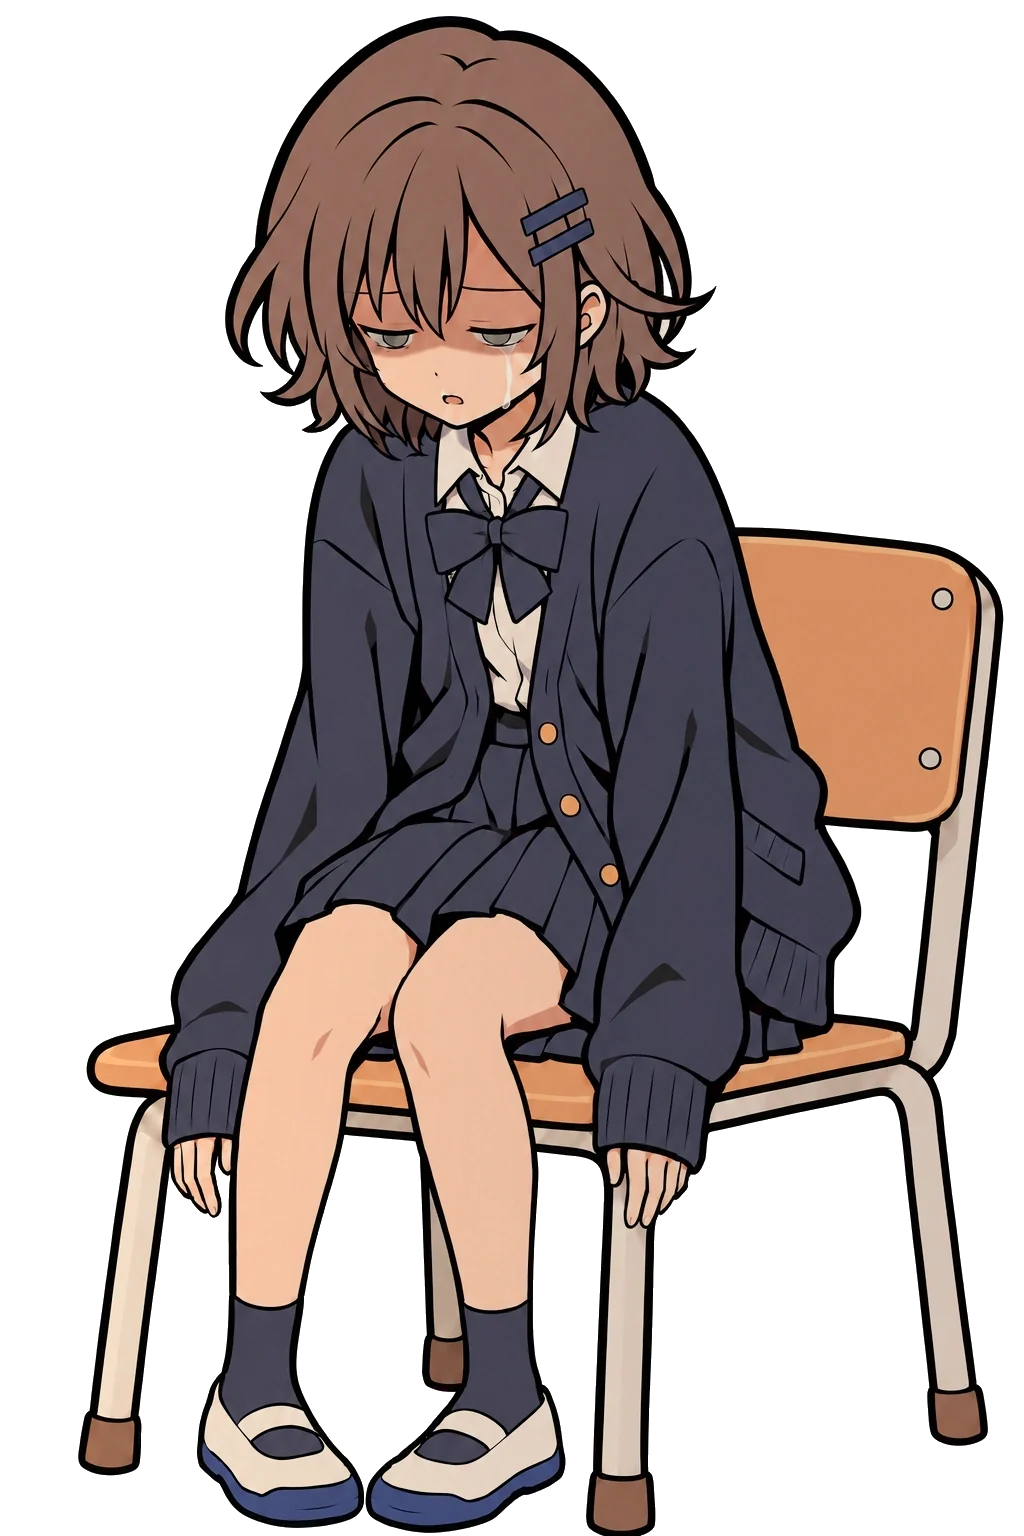
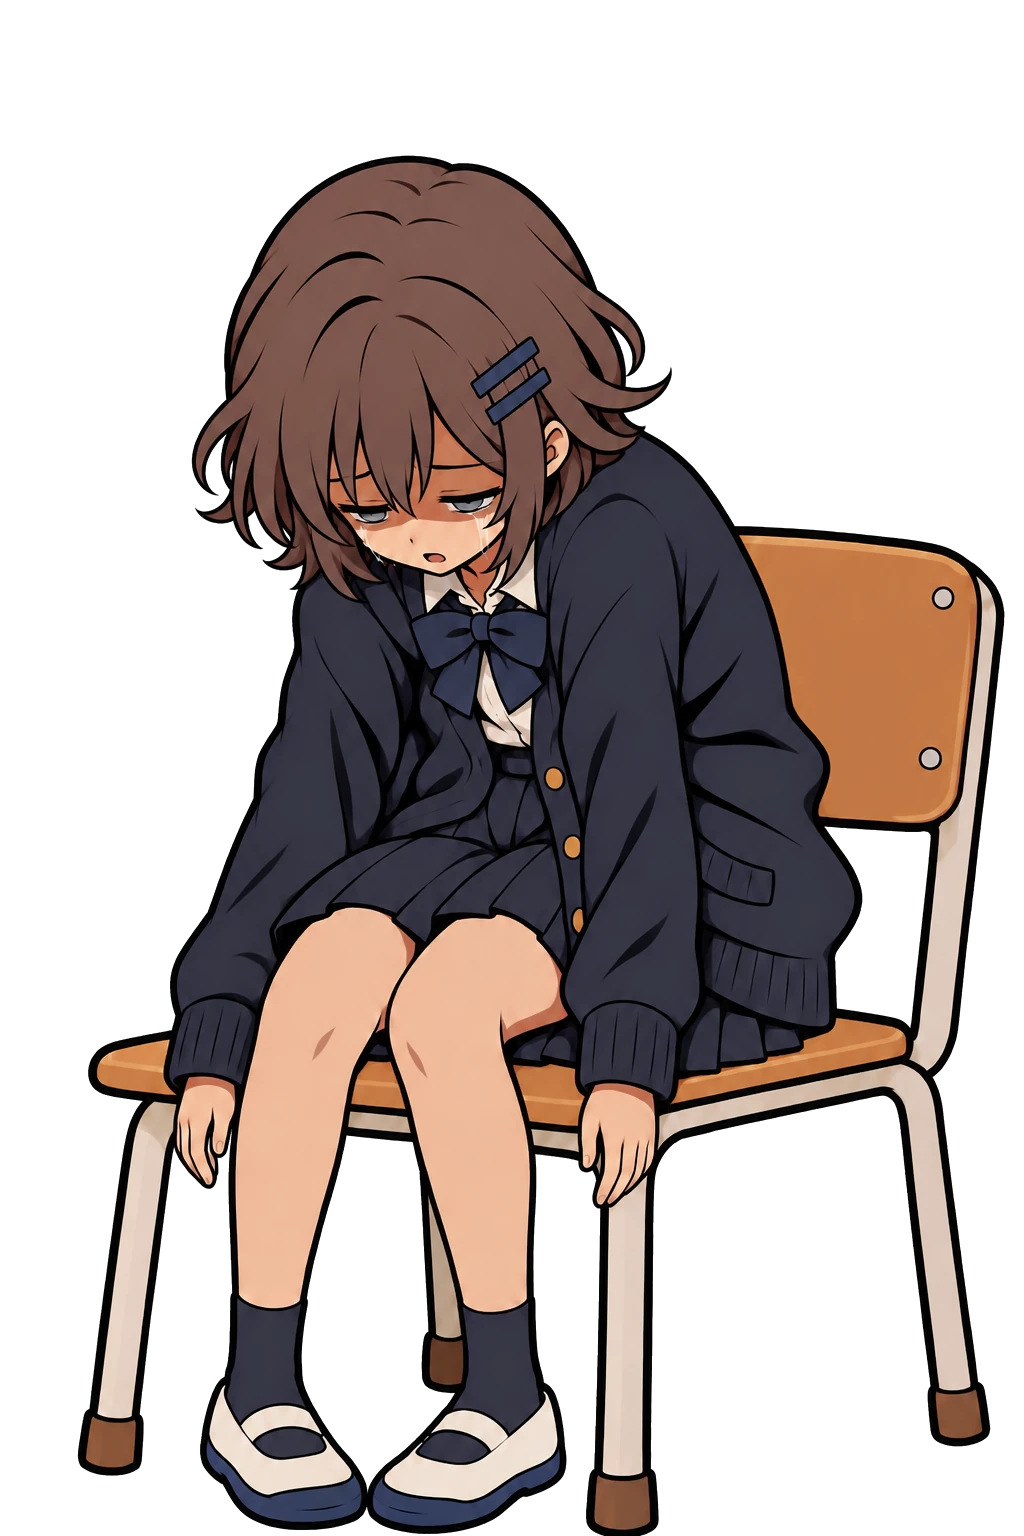
1章：ヒナの崩れる絵を描き直し、退部届の話はその放課後に見たときだけに
- 「……全部、意味なかったの？」の座り絵：背中を丸めて力の抜けた姿勢に、後頭部を短く、色を前後の絵に合わせる。涙の光も合わせて作り直す
- 「お母さんが間違ってるよ」とヒナの退部届のセリフは、この放課後に退部届を見たときだけ（2章の父さんへの下書きと同じ）

diff --git a/index.html b/index.html
@@ -5404,8 +5404,10 @@
             '色鉛筆の箱だ。リボンがかかったまま、一度もほどかれていない。', '箱の裏に画材屋の値札シールが残っていた。この町では見かけない店の名前だ。');
           if (!R.know.has('resign')) L.push('色鉛筆の箱を持ち上げると、底に四つ折りの紙が一枚。', '退部届だった。学校の用紙ではない。便箋に大人のきちょうめんな字で全文が書いてある。「美術部を退部いたします。　春日ヒナ　保護者　春日」',
             'クリップでメモが留めてあった。', '「金曜までに出せなかったら、これを出します。あなたのためです。」');
-          if (!L.length) return;
-          R.know.add('pencils'); R.know.add('resign'); await say(L);
+          // 2026-11-28 作者の決定：「お母さんが間違ってるよ」に入れ替わるのは、この放課後に退部届を見たときだけ（2章の父さんへの下書き R.dadRead と同じ）。
+          // 前の周回で見て覚えていれば、開けたときにそのまま目に入る
+          if (!L.length) { if (R.know.has('resign') && !R.resignRead) { R.resignRead = true; await say(['カーディガンの下に、リボンをほどいていない色鉛筆の箱と、四つ折りの退部届。']); } return; }
+          R.know.add('pencils'); R.know.add('resign'); R.resignRead = true; await say(L);
         };
         if (R.know.has('drawer') && !R.drawerOpen) {
           R.drawerOpen = true; R.seen.add('drawer');
@@ -5432,7 +5434,7 @@
         if (R.drawerOpen) {
           showCut('ci_drawer');
           if (!R.know.has('pencils') || !R.know.has('resign')) { await say(['開いた引き出し。']); await drawerDeep(); await tick(); return; }
-          await say(['開いた引き出し。空の絆創膏の箱と、長袖のカーディガン。', 'その下にリボンをほどいていない色鉛筆の箱と、四つ折りの退部届。']); return;
+          R.resignRead = true; await say(['開いた引き出し。空の絆創膏の箱と、長袖のカーディガン。', 'その下にリボンをほどいていない色鉛筆の箱と、四つ折りの退部届。']); return;
         }
         showCut(R.taken.scrap ? 'ci_shelf_empty' : 'ci_shelf');
         const dialKnown = KNOWN('drawer');
@@ -5542,7 +5544,7 @@
                                 'ヒナは窓のほうを向いたまま、振り返らなかった。'],
                                ['扉を叩いた。返事はない。', '……扉の向こうで紙を引き裂く音が聞こえた。', '少ししてまた一枚。……また一枚。']);
       await say([['ヒナ', '……きれい？', 'surprise'], ['ヒナ', '……そんなふうに言われたの、初めて', 'down'], 'ヒナはしばらく黙って、窓の外の空を見ていた。', ['ヒナ', '破ったのは、お母さん', 'down'], ['ヒナ', '……昨日、ここで描いたの。乾かそうと思ってスケッチブックに挟んだら、そのまま鞄に入れて帰っちゃって', 'sad'], ['ヒナ', 'お母さん、毎晩スケッチブックを見るの。お風呂から戻ったら、あの絵が机の上に出してあって、裏に、お母さんの字が書いてあった', 'sad'], ['ヒナ', '『こんなもの描いてる暇があるなら』って。……県展の絵、まだ一枚も描けてないから', 'sad'], ['ヒナ', '言い返したら、目の前で、びりびりに', 'sad'],
-                 ...(R.know.has('resign')
+                 ...(R.resignRead   // 2026-11-28 作者の指示：退部届の話は全部、この放課後に見たときだけ（覚えているだけでは出さない）
                    ? [['ヒナ', '……引き出しの、退部届も見たんでしょ', 'down'],   // 2026-11-10 作者の指摘：見た証拠がないので、ヒナの推測の言い方に
                       ['ヒナ', 'お母さんね、本気で『あなたのため』だと思ってるの。……だから、何も言い返せない', 'sad']]
                    : [['ヒナ', '……県展の〆切、今週の金曜なの', 'down'],
@@ -5589,7 +5591,7 @@
       // 2026-11-19 作者の決定：引き出しの退部届（母の「あなたのためです」）を見た周回は、追い詰める答えが「お母さんが間違ってる」に替わる（わすれものの答えと同じ、見たもので言えることが変わる形）。
       // 母を悪者にしない決まりは保ったまま、そう感じるプレイヤーの気持ちを選択肢で受け止める。ヒナにとって母は唯一の母で、世間的にも「良いお母さん」。否定されると、
       // 母に認められようと頑張ってきたこと、母に愛されたいと願っていた自分まで崩れる（企画書01）。かばううちに言葉が届いてしまい、足もとから崩れていく
-      const momWrong = R.know.has('resign');
+      const momWrong = !!R.resignRead;   // 2026-11-28：この放課後に退部届を見たときだけ（覚えているだけでは入れ替えない）
       a = await ask([['お姉さんと比べなくていいんだよ', 'seiron'], ['……『サクラの妹』って呼ばれるたびに、ずっとその声を聞いてきたんだね', 'yori'],
                      ['ヒナさんは失敗作なんかじゃないよ。……ヒナさんのことは、ちゃんと見てるから', 'nagu'], momWrong ? ['それはお母さんが間違ってるよ', 'oitsu'] : ['今年の県展で描いてお母さんに認めてもらおうよ。ヒナさんなら描けるよ', 'oitsu']], 2);
       if (a === 'seiron') { await say([['ヒナ', '分かってる。……分かってるよ、そんなの', 'angry'], ['ヒナ', '分かってても、比べられるの。私が比べなくたって、お母さんが比べるの', 'angry'], ['ヒナ', '……分かってるなら楽になれるって、思ってるんでしょ', 'sad'], 'ヒナは膝を抱えて顔を伏せた。']); return closeHeart(); }
